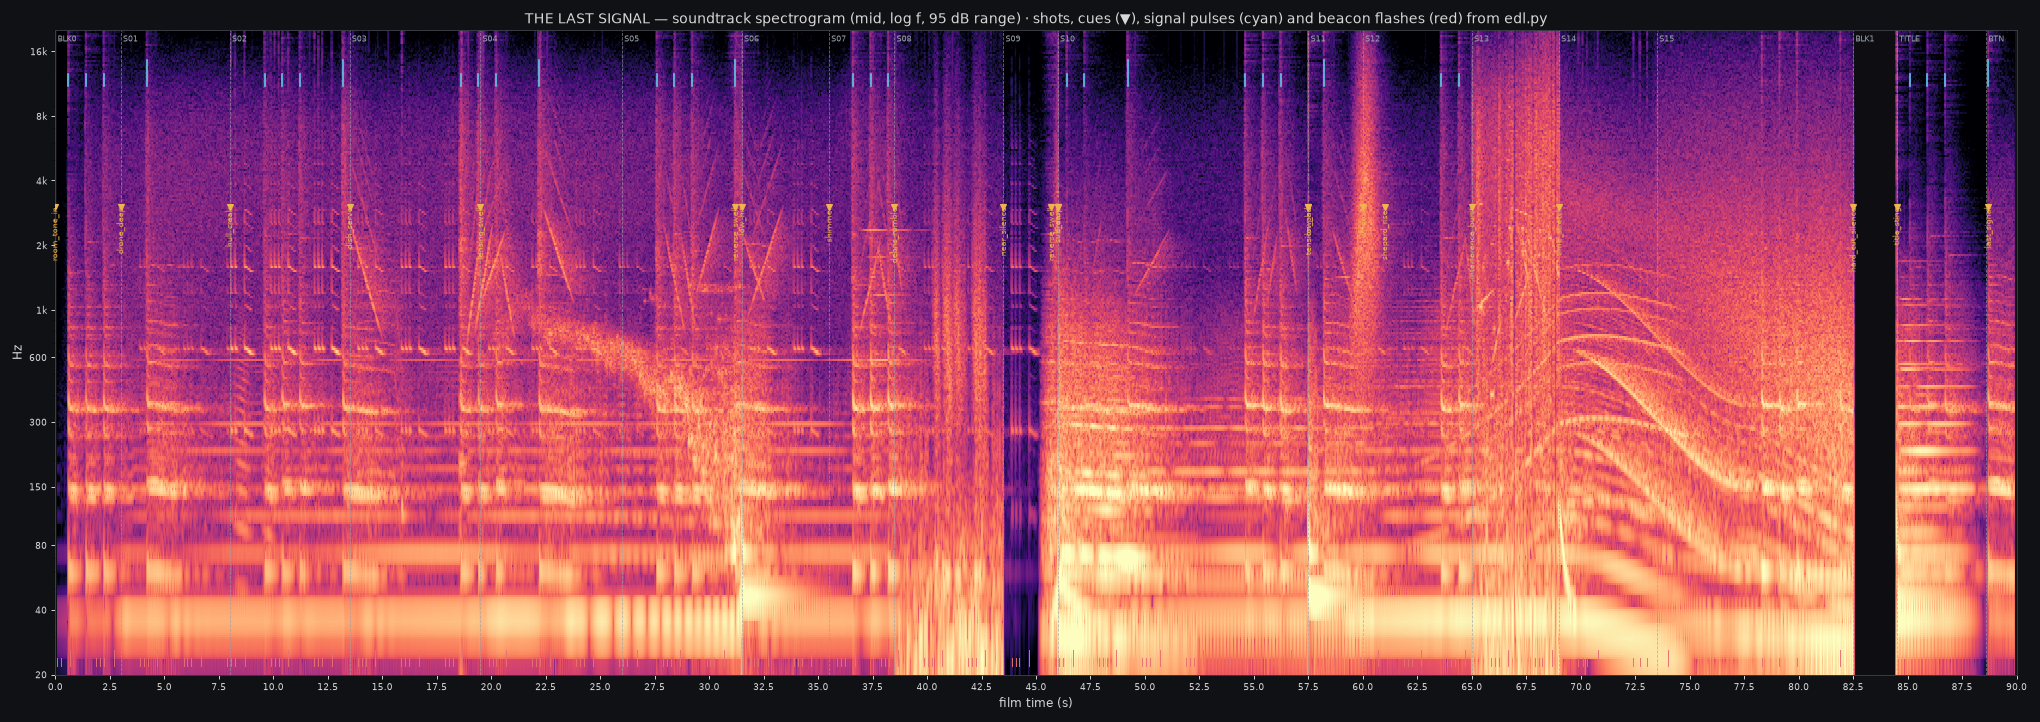
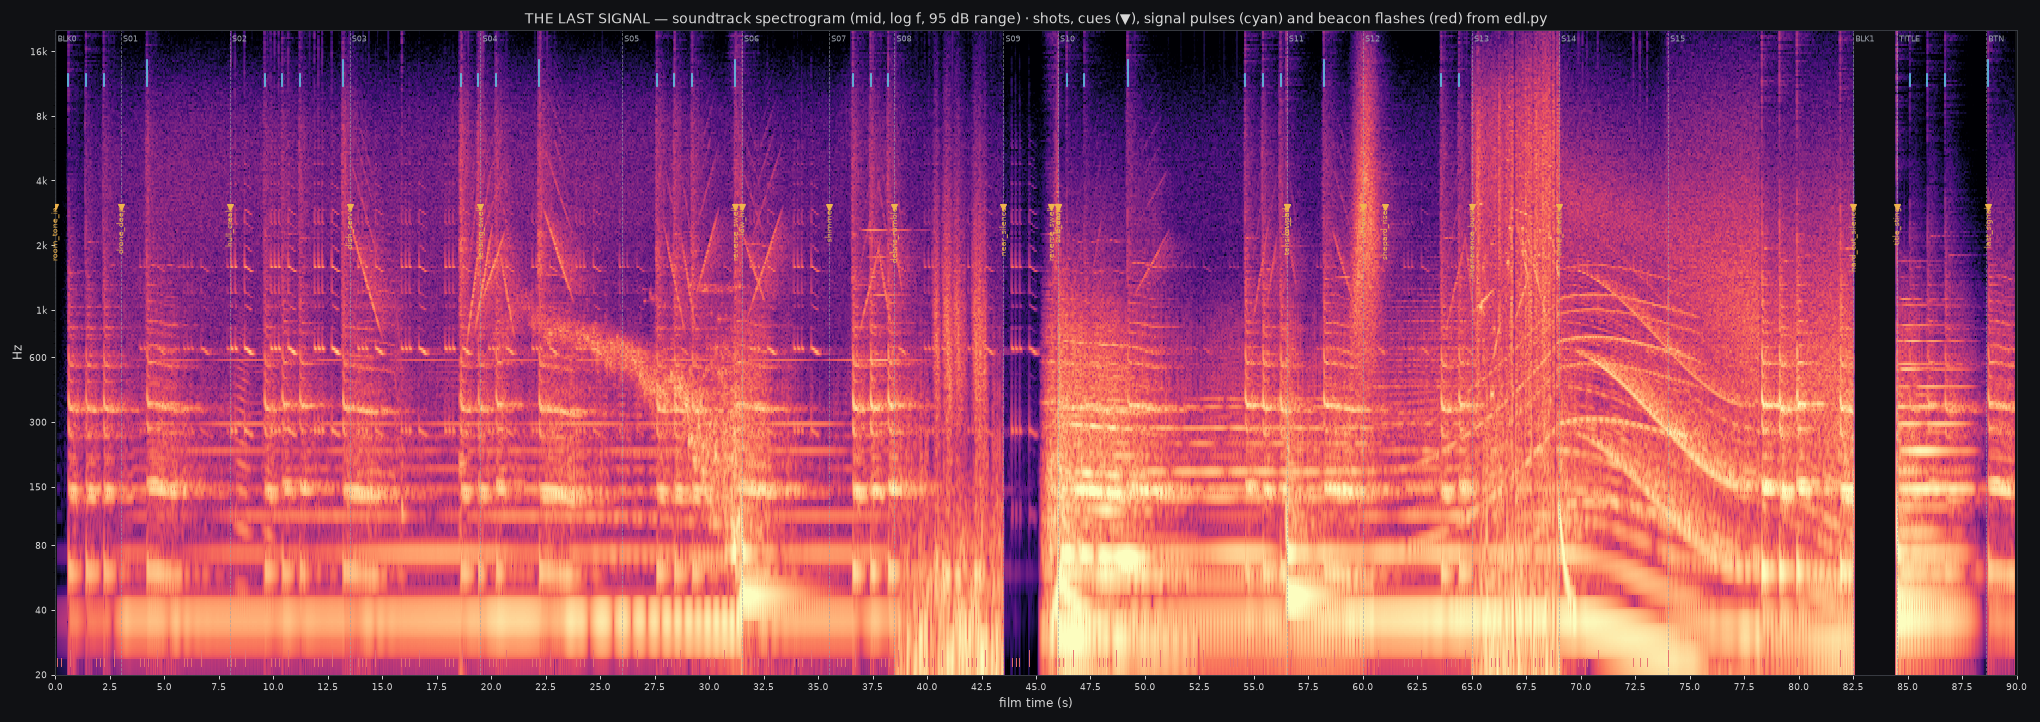
Review round 2: S15 beacon anti-aliased (>=2.2 px, flux-conserving), ember down, front-loaded fall; S14 flush xenon dome + wider shot above the hull; S14/S15 cut on the long flash; S10 reveal lands on the hit, broad rim; S11 from below the disk plane, ship on the bright band; S12 disk floor, no star
Claude-Session: https://claude.ai/code/session_012RKX6WzZMWJcPfeVrucKtW

Changed region(s): [[0.5559, 0.0305, 0.9265, 0.9446]]

diff --git a/production/shots/S15/shot.py b/production/shots/S15/shot.py
@@ -57,17 +57,35 @@ def cam_at(t: float) -> Cam:
     return c.with_drift(t, 0.03, seed=15)
 
 
+SPAN_M = 32.5                  # camera coordinate time covered by the shot (M)
+
+
+def _w(u: float) -> float:
+    """Front-loaded fall: most of the image's travel early, then it visibly freezes (review round 2)."""
+    return 1.0 - (1.0 - u) ** 2.2
+
+
+def _t_cam(t: float) -> float:
+    return T_CAM0 + SPAN_M * _w(SHOT.local(t))
+
+
 def params(t: float, q: str) -> dict:
+    from tls.render import QUALITY
     u = SHOT.local(t)
     wl = worldline()
     # flash timing = the EDL's motif on the steered ship clock (physics P21); position, lensing, colour
-    # (T * g) and dimming (g^p_g) = the worldline, traced. Between flashes a faint ember: the ship's hull
-    # and running lights, so the point never leaves the frame before the cut.
+    # (T * g) and dimming come from the traced worldline. A faint ember between flashes keeps the point.
     env = edl.beacon_intensity(t)
+    # anti-aliasing: the emitter is never smaller than ~2.2 px at this resolution, flux conserved (the
+    # tracer's emitter is a 3-D Gaussian: its flux goes as intensity * sigma^3)
+    W = QUALITY[q]["W"]
+    sigma = max(0.04, 2.2 * math.radians(36.0) / W * 60.0)
+    dt = 1.0 / edl.FPS
+    span = (_t_cam(min(t + dt / 4, T1)) - _t_cam(max(t - dt / 4, T0)))      # 180-degree shutter, in M
     beacon = {
-        "table": wl.tolist(), "t_cam": T_CAM0 + BEACON_RATE * (t - T0), "t_span": BEACON_RATE * 0.5 / edl.FPS,
-        "sigma": 0.04, "intensity": 2200.0, "T": 6000.0, "p_g": 2.0, "decay": 0.35,
-        "steady": 0.035 + env, "pulses": [],
+        "table": wl.tolist(), "t_cam": _t_cam(t), "t_span": max(span, 1e-3),
+        "sigma": sigma, "intensity": 800.0 * (0.04 / sigma) ** 3, "T": 6000.0, "p_g": 1.5, "decay": 0.35,
+        "steady": 0.004 + env, "pulses": [],
     }
     red = smoothstep(0.35, 1.0, u)
     P = CompParams(exposure=-0.3 - 0.7 * red,

diff --git a/production/shots/S10/shot.py b/production/shots/S10/shot.py
@@ -17,9 +17,10 @@ SHOT = edl.SHOT_BY_ID["S10"]
 T0, T1 = SHOT.start, SHOT.end
 
 # distance (M), inclination (deg) and look-target height (M) over time
-dist = Track([(T0, 78.0), (T0 + 3.0, 76.0), (T1, 66.0)], ease=0.6)
+dist = Track([(T0, 78.0), (T0 + 1.8, 76.5), (T1, 66.0)], ease=0.6)
 incl = Track([(T0, 86.3), (T1, 85.6)])
-tilt = Track([(T0, -9.0), (T0 + 1.2, -7.5), (T0 + 3.4, 0.0), (T1, 0.4)])     # degrees of tilt below the hole
+# review round 2: the hole clears the hull ~0.3 s after the hit (was ~2 s late)
+tilt = Track([(T0, -6.0), (T0 + 0.6, -4.2), (T0 + 1.6, 0.0), (T1, 0.4)])     # degrees of tilt below the hole
 fov = Track([(T0, 40.0), (T1, 35.0)], ease=0.5)
 _tilt = spring_follow(lambda t: np.array([float(tilt(t))]), T0, T1 + 0.5, zeta=0.85, fn=0.45)
 
@@ -36,7 +37,7 @@ def cam_at(t: float) -> Cam:
 
 
 # the crane: from low behind the ship (its hull hides the hole) up and over it
-crane = Track([(T0, v3(0.0, -34.0, 2.5)), (T0 + 1.0, v3(0.0, -35.0, 4.0)), (T0 + 3.6, v3(0.0, -38.0, 21.0)),
+crane = Track([(T0, v3(0.0, -34.0, 6.0)), (T0 + 0.6, v3(0.0, -35.5, 10.0)), (T0 + 1.8, v3(0.0, -38.0, 21.0)),
                (T1, v3(0.0, -44.0, 30.0))], ease=0.0)
 
 
@@ -52,6 +53,6 @@ def params(t: float, q: str) -> dict:
     P.exposure += 0.35 * math.exp(-max(t - (T0 + 2.8), 0) / 1.2) * smoothstep(T0 + 1.8, T0 + 2.8, t)
     bl = {"controls": controls(t, engine=0.0, nav=0.3), "probe": {"pos_bh": [float(x) for x in orbit_pos(float(dist(t)), float(incl(t)), -90.0)],
                                                         "strength": 1.0},
-          "keys": [{"dir": [0.0, 1.0, -0.05], "color": [1.0, 0.8, 0.58], "strength": 3.0, "angle": 2.0}],   # the hole rims the ship
+          "keys": [{"dir": [0.0, 1.0, -0.05], "color": [1.0, 0.8, 0.58], "strength": 9.0, "angle": 20.0}],   # the disk as a broad source   # the hole rims the ship
           "hide_ship": t > T0 + 5.0}
     return {"comp": P, "tracer": {}, "blender": bl}

diff --git a/production/shots/TITLE/shot.py b/production/shots/TITLE/shot.py
@@ -13,12 +13,32 @@ def cam_at(t):
     return Cam(fwd=v3(0, 1, 0))
 
 
+X, Y = 0.633, 0.595                # where the falling light was last seen (S15, BTN)
+
+
+def _blink(t):
+    """The motif's three shorts at the signal's tempo, as in the sound (edl.signal_pulses)."""
+    v = 0.0
+    for p in edl.signal_pulses():
+        if p.t < T0 or p.t >= T1 or p.long:
+            continue
+        d = t - p.t
+        on = edl.FLASH_SHORT * p.stretch
+        if 0 <= d < on + 1.0:
+            v = max(v, (1 - math.exp(-d / 0.04)) * (1.0 if d < on else math.exp(-(d - on) / 0.18)))
+    return v
+
+
 def params(t, q):
     a = smoothstep(T0 + 0.05, T0 + 0.9, t) * (1 - smoothstep(T1 - 1.1, T1 - 0.1, t))
     # a faint shiver on the sting, then steady
     a *= 1.0 - 0.25 * math.exp(-max(t - T0 - 0.1, 0) / 0.25) * (0.5 + 0.5 * math.sin(t * 90))
-    # heavier than a hairline so it survives a phone and re-encoding; a faint photon ring behind it
-    title = {"text": "THE LAST SIGNAL", "opacity": a, "glow": 0.32, "size": 0.029, "tracking": 0.72,
-             "weight": 420, "y": 0.5, "color": (0.92, 0.89, 0.84),
-             "ring": {"opacity": 0.05 * a, "radius": 0.33, "width": 0.0016}}
-    return {"black": True, "comp": CompParams(title=title)}
+    # bigger and less tracked than a hairline credit: it has to survive a phone (review round 2)
+    title = {"text": "THE LAST SIGNAL", "opacity": a, "glow": 0.32, "size": 0.034, "tracking": 0.5,
+             "weight": 500, "y": 0.47, "color": (0.92, 0.89, 0.84),
+             "ring": {"opacity": 0.09 * a, "radius": 0.36, "width": 0.0016}}
+    k = 0.012 + _blink(t)
+    sp = [{"x": X, "y": Y, "rgb": [200.0 * k, 55.0 * k, 16.0 * k], "sigma_px": 2.0}]
+    P = CompParams(title=title, sprites=sp, bloom=0.08, glare=0.012, streak=0.0, halation=0.12, vignette=0.0,
+                   punch=0.2)
+    return {"black": True, "comp": P}

diff --git a/production/shots/S06/shot.py b/production/shots/S06/shot.py
@@ -22,7 +22,7 @@ PIVOT = v3(0.0, 30.83, 0.0)                      # dish gimbal, ship frame
 DISH_C = PIVOT + rot((1, 0, 0), math.radians(DISH_EL)) @ v3(0.0, 1.57, 0.0)   # reflector centre
 RIGHT = norm(np.cross(HOLE, v3(0, 0, 1)))
 UP = np.cross(RIGHT, HOLE)
-slide = Track([(T0, -0.2), (T1, -2.45)], ease=0.35)  # metres to the left: the dish uncovers the approaching (bright) side
+slide = Track([(T0, -0.1), (T1, 3.0)], ease=0.35)   # metres up: the dish sinks and uncovers the lensed arch, a crescent along its rim
 HFOV = 50.0
 
 
@@ -32,9 +32,9 @@ def ship_at(t):
 
 def cam_at(t):
     d = (ship_at(t) @ [*DISH_C, 1.0])[:3]
-    p = d - 18.0 * HOLE + float(slide(t)) * RIGHT + 0.5 * UP
-    # the hole sits a little left of centre; the dish drifts right past it
-    f = norm(rot(UP, math.radians(4.0)) @ rot(RIGHT, math.radians(2.0)) @ HOLE)
+    p = d - 18.0 * HOLE + float(slide(t)) * UP
+    # the hole sits a little above centre; the dish sinks below it
+    f = norm(rot(RIGHT, math.radians(3.0)) @ HOLE)
     c = Cam(fwd=f, up=v3(0, 0, 1), pos_bh=ship_pos_bh(D_BH), pos_ship=p, hfov=HFOV, focus=18.0, fstop=4.0)
     return c.with_drift(t, 0.03, seed=6)
 
@@ -48,6 +48,6 @@ def params(t, q):
     bl = {"controls": controls(t, dish_el=DISH_EL), "probe": probe(D_BH, strength=1.0),
           # the hole's light from behind the dish, plus a grazing sliver from the side so the rim catches gold
           "keys": [{"dir": list(map(float, HOLE)), "color": [1.0, 0.76, 0.5], "strength": 5.0, "angle": 3.0},
-                   {"dir": list(map(float, norm(HOLE - 0.55 * RIGHT))), "color": [1.0, 0.8, 0.55], "strength": 2.5,
+                   {"dir": list(map(float, norm(HOLE + 0.55 * UP))), "color": [1.0, 0.8, 0.55], "strength": 2.5,
                     "angle": 2.0}]}
     return {"comp": P, "tracer": {}, "blender": bl}

diff --git a/production/tls/edl.py b/production/tls/edl.py
@@ -41,7 +41,8 @@ class Shot:
 
 
 SHOTS: list[Shot] = [
-    # review round 1 (2026-09-29): reveal at 46 s, S11 a 2.5 s speck, the time goes to the ending
+    # review round 1 (2026-09-29): reveal at 46 s, the time goes to the ending; round 2 (2026-10-03): S11 3.5 s
+    # (1 s from S10's hold), S14/S15 cut on the onset of the long flash (73.99) so it carries across the match cut
     Shot("BLK0", 0.0, 3.0, "black open", "black"),
     Shot("S01", 3.0, 8.0, "The Deep", "shot", ("tracer", "blender")),
     Shot("S02", 8.0, 13.5, "Hull", "shot", ("tracer", "blender")),
@@ -52,12 +53,12 @@ SHOTS: list[Shot] = [
     Shot("S07", 35.5, 38.5, "Glimpse: edge", "shot", ("tracer",)),
     Shot("S08", 38.5, 43.5, "Debris", "shot", ("tracer", "blender")),
     Shot("S09", 43.5, 46.0, "Breath", "shot", ("tracer", "blender")),
-    Shot("S10", 46.0, 57.5, "The reveal", "shot", ("tracer", "blender")),
-    Shot("S11", 57.5, 60.0, "Scale", "shot", ("tracer", "blender")),
+    Shot("S10", 46.0, 56.5, "The reveal", "shot", ("tracer", "blender")),
+    Shot("S11", 56.5, 60.0, "Scale", "shot", ("tracer", "blender")),
     Shot("S12", 60.0, 65.0, "Under the arch", "shot", ("tracer", "blender")),
     Shot("S13", 65.0, 69.0, "Interference", "shot", ("tracer",)),
-    Shot("S14", 69.0, 73.5, "Last look", "shot", ("tracer", "blender")),
-    Shot("S15", 73.5, 82.5, "The fall", "shot", ("tracer",)),
+    Shot("S14", 69.0, 74.0, "Last look", "shot", ("tracer", "blender")),
+    Shot("S15", 74.0, 82.5, "The fall", "shot", ("tracer",)),
     Shot("BLK1", 82.5, 84.5, "silence", "black"),
     Shot("TITLE", 84.5, 88.6, "THE LAST SIGNAL", "title"),
     Shot("BTN", 88.6, 90.0, "button", "black"),

diff --git a/production/shots/S11/shot.py b/production/shots/S11/shot.py
@@ -14,10 +14,11 @@ cp = Track([(T0, v3(-40.0, -1300.0, -62.0)), (T1, v3(-30.0, -1240.0, -58.0))])
 
 
 def cam_at(t):
-    pb = ship_pos_bh(float(dist(t)))
-    f = norm(look(pb, (0, 0, 3.3)))
+    # review round 2: from just below the disk plane, against the lower lensed ring (S10/S12 look from above)
+    pb = ship_pos_bh(float(dist(t)), incl=95.5)
+    f = norm(look(pb, (0, 0, -3.0)))
     u = SHOT.local(t)
-    ps = cam_pos_for_screen(f, (0, 0, 1), 0.36 + 0.02 * u, 0.30, 8000.0 - 200.0 * u, 16.0)   # a speck, ~3% of frame
+    ps = cam_pos_for_screen(f, (0, 0, 1), 0.34 + 0.03 * u, 0.84, 2700.0 - 100.0 * u, 16.0)   # ~9% of frame, on the bright band under the shadow
     c = Cam(fwd=f, up=v3(0, 0, 1), pos_bh=pb, pos_ship=ps, hfov=16.0)
     return c.with_drift(t, 0.035, seed=11)
 
@@ -27,8 +28,8 @@ def ship_at(t):
 
 
 def params(t, q):
-    P = CompParams(exposure=0.6, gains={"sky": 0.4, "stars": 0.8, "ship_env": 1.0, "ship_key": 1.0, "ship_lamps": 1.5},
+    P = CompParams(exposure=0.6, gains={"sky": 0.4, "stars": 0.8, "ship_env": 1.0, "ship_key": 1.0, "ship_lamps": 4.0},
                    bloom=0.045, glare=0.016, streak=0.06, halation=0.06, vignette=0.3, punch=0.4, look_sat=1.15, saturation=0.85,
                    white=(1.0, 0.96, 0.9))
-    bl = {"controls": controls(t, engine=0.1), "probe": probe(float(dist(t)), strength=1.0), "keys": []}
+    bl = {"controls": controls(t, engine=0.1), "probe": probe(float(dist(t)), strength=1.0, incl=95.5), "keys": []}
     return {"comp": P, "tracer": {}, "blender": bl}

diff --git a/production/shots/S09/shot.py b/production/shots/S09/shot.py
@@ -1,5 +1,6 @@
-"""S09 — BREATH (46.0–48.5). Near-silence. Low behind the ship: its dish silhouetted against a glowing
-veil of dust with the hole's light behind it."""
+"""S09 — BREATH. Near-silence. Low behind the ship: its dish silhouetted against the hole's glow, thrown so
+far out of focus (220 px bokeh) that it is only a warm veil: the hole's shape is not seen before S10
+(review round 2)."""
 from comp.comp import CompParams
 from tls import edl
 from tls.camera import Cam, Track, look, v3
@@ -24,8 +25,8 @@ def ship_at(t):
 def params(t, q):
     P = CompParams(exposure=-1.0, gains={"sky": 0.3, "stars": 0.4, "disk": 0.6, "haze": 3.0,
                                          "ship_env": 0.6, "ship_key": 0.5, "ship_lamps": 1.0},
-                   coc_px=70.0, bloom=0.08, glare=0.03, streak=0.04, halation=0.06, vignette=0.2, punch=0.2,
+                   coc_px=220.0, bloom=0.08, glare=0.03, streak=0.04, halation=0.06, vignette=0.2, punch=0.2,
                    white=(1.0, 0.93, 0.84))
     bl = {"controls": controls(t, engine=0.0, flicker=False), "world": {"color": [0.0, 0.0, 0.0]},
-          "keys": [{"dir": [0.0, 1.0, 0.15], "color": [1.0, 0.72, 0.45], "strength": 1.5, "angle": 6.0}]}
+          "keys": [{"dir": [0.0, 1.0, 0.15], "color": [1.0, 0.72, 0.45], "strength": 3.0, "angle": 6.0}]}
     return {"comp": P, "tracer": {"disk": {"haze": 0.02, "haze_h": 0.25}}, "blender": bl}

diff --git a/production/shots/S14/shot.py b/production/shots/S14/shot.py
@@ -12,10 +12,10 @@ from tls.shotkit import cam_pos_for_screen, controls, probe, ship_matrix, ship_p
 
 SHOT = edl.SHOT_BY_ID["S14"]
 T0, T1 = SHOT.start, SHOT.end
-BEACON = v3(0.0, 15.73, 2.95)
-HFOV = 30.0
-dist = Track([(T0, 2.6), (T1, 2.05)], ease=0.3)                # slow push onto the lamp
-fwd = Track([(T0, v3(-0.12, 1.0, -0.07)), (T1, v3(-0.09, 1.0, -0.05))], ease=0.3)   # the lamp against the shadow
+BEACON = v3(0.0, 15.73, 2.751)        # flush xenon dome (ship_build: review round 2)
+HFOV = 40.0
+dist = Track([(T0, 4.2), (T1, 3.4)], ease=0.3)                 # slow push onto the lamp
+fwd = Track([(T0, v3(-0.34, 1.0, -0.075)), (T1, v3(-0.3, 1.0, -0.06))], ease=0.3)   # just above the hull top, the lamp against the shadow
 
 
 def cam_at(t):
@@ -23,7 +23,7 @@ def cam_at(t):
     d = float(dist(t))
     b = (ship_at(t) @ [*BEACON, 1.0])[:3]                     # the lamp where the posed ship carries it
     p = cam_pos_for_screen(f, (0, 0, 1), 0.60, 0.37, d, HFOV, target=b)   # where S15's point of light starts: a match cut
-    c = Cam(fwd=f, up=v3(0, 0, 1), pos_bh=ship_pos_bh(10.0), pos_ship=p, hfov=HFOV, focus=d, fstop=1.4)
+    c = Cam(fwd=f, up=v3(0, 0, 1), pos_bh=ship_pos_bh(10.0), pos_ship=p, hfov=HFOV, focus=d, fstop=2.0)
     return c.with_drift(t, 0.05, seed=14, vib_px=0.3)
 
 

diff --git a/production/shots/S12/shot.py b/production/shots/S12/shot.py
@@ -14,14 +14,14 @@ SHOT = edl.SHOT_BY_ID["S12"]
 T0, T1 = SHOT.start, SHOT.end
 r = Track([(T0, 16.5), (T1, 14.0)], ease=0.2)
 h = Track([(T0, 0.9), (T1, 0.75)])   # high enough that rays to the hole clear the disk's upper layers
-az = Track([(T0, -84.0), (T1, -104.0)], ease=0.15)   # against the disk's rotation: relative speed
+az = Track([(T0, -88.0), (T1, -96.0)], ease=0.15)    # against the disk's rotation (gentler: no star-trail swirl)
 
 
 def cam_at(t):
     rr = float(r(t))
     a = math.radians(float(az(t)))
     pb = v3(rr * math.cos(a), rr * math.sin(a), float(h(t)))
-    f = norm(look(pb, (0, 0, 4.6)))           # look up: the disk floor is a low horizon, the arch towers
+    f = norm(look(pb, (0, 0, 2.6)))           # the disk floor fills the lower ~40%, the arch towers above
     up = norm(rot(f, math.radians(-9.0)) @ v3(0, 0, 1))
     c = Cam(fwd=f, up=up, pos_bh=pb, pos_ship=v3(8.0, -160.0, -10.0), hfov=72.0)
     return c.with_drift(t, 0.08, seed=12, vib_px=0.35)

diff --git a/production/shots/S03/shot.py b/production/shots/S03/shot.py
@@ -43,7 +43,7 @@ def params(t, q):
                    white=(0.97, 0.98, 1.02), interference=0.25 * edl.interference(t))
     bl = {"controls": ctl, "world": {"color": [0.0004, 0.0005, 0.0007]},
           # one hard raking key, almost no fill (the far side falls to black), a cool rim from behind
-          "keys": [warm_key_from_hole(strength=2.8, color=(1.0, 0.84, 0.66), angle=0.5, dir_=(-0.9, 0.45, 0.4)),
+          "keys": [warm_key_from_hole(strength=0.9, color=(1.0, 0.84, 0.66), angle=0.5, dir_=(-0.9, 0.45, 0.4)),
                    {"dir": [-0.7, -0.5, 0.4], "color": [0.62, 0.72, 1.0], "strength": 0.06, "angle": 10},
-                   {"dir": list(map(float, _rim(t))), "color": [0.7, 0.8, 1.0], "strength": 1.6, "angle": 1.0}]}
+                   {"dir": list(map(float, _rim(t))), "color": [0.85, 0.85, 1.0], "strength": 4.5, "angle": 1.0}]}   # backlight carries it
     return {"comp": P, "tracer": {"disk": {"on": False}}, "blender": bl}

diff --git a/production/blender/ship/ship_build.py b/production/blender/ship/ship_build.py
@@ -426,12 +426,8 @@ def build_service(B, rng, lights):
         rcs_quad(B, xf, f"RCS {i + 1}A")
     # dorsal xenon strobe + stencils next to it
     bxf = surface_frame(90, SVC_A, 10.9)
-    c = lamp_unit(B, bxf, "beacon", r=0.055, mast=0.28)
-    for k in range(3):
-        a = 2 * math.pi * k / 3 + 0.4
-        p0 = (bxf @ np.array([0.085 * math.cos(a), 0.085 * math.sin(a), 0.33, 1.0]))[:3]
-        p1 = (bxf @ np.array([0.0, 0.0, 0.46, 1.0]))[:3]
-        d.tube(p0, p1, 0.005, "alu_anod", segs=6)
+    # a flush xenon dome on a short pedestal (review round 2: the mast + wire cage read as a garden lamp)
+    c = lamp_unit(B, bxf, "beacon", r=0.09, mast=0.04)
     lights.append(("Beacon_Dorsal", "beacon", c, (0.82, 0.88, 1.0), 2600.0, 0.03))
     o = surface_frame(90, SVC_A + 0.0008, 11.55)[:3, 3]
     place_text(st, "LSV-7", 0.16, o + np.array([0.55, 0, 0]), (-1, 0, 0), (0, -1, 0), "stencil_black", FONT_SANS,

diff --git a/production/shots/S02/shot.py b/production/shots/S02/shot.py
@@ -32,7 +32,8 @@ def params(t, q):
     P = CompParams(exposure=-0.9, gains={"sky": 1.0, "stars": 1.4, "ship_env": 1.0, "ship_key": 1.0, "ship_lamps": 1.0},
                    coc_px=c.coc_inf_px(), bloom=0.04, streak=0.06, streak_threshold=8.0, halation=0.05,
                    vignette=0.34, punch=0.14, white=(0.97, 0.98, 1.02))
-    bl = {"controls": controls(t), "world": {"color": [0.0004, 0.0005, 0.0007], "strength": 1.0},
+    bl = {"controls": controls(t, nav=0.0),   # no green leak on the foil
+          "world": {"color": [0.0004, 0.0005, 0.0007], "strength": 1.0},
           "keys": [warm_key_from_hole(strength=1.6, color=(1.0, 0.86, 0.7), angle=0.35, dir_=(0.95, 0.35, 0.28)),   # raking: crinkles alternate spec and black
                    {"dir": [0.8, -0.3, 0.55], "color": [0.62, 0.72, 1.0], "strength": 0.04, "angle": 12}]}
     return {"comp": P, "tracer": {"disk": {"on": False}}, "blender": bl}
